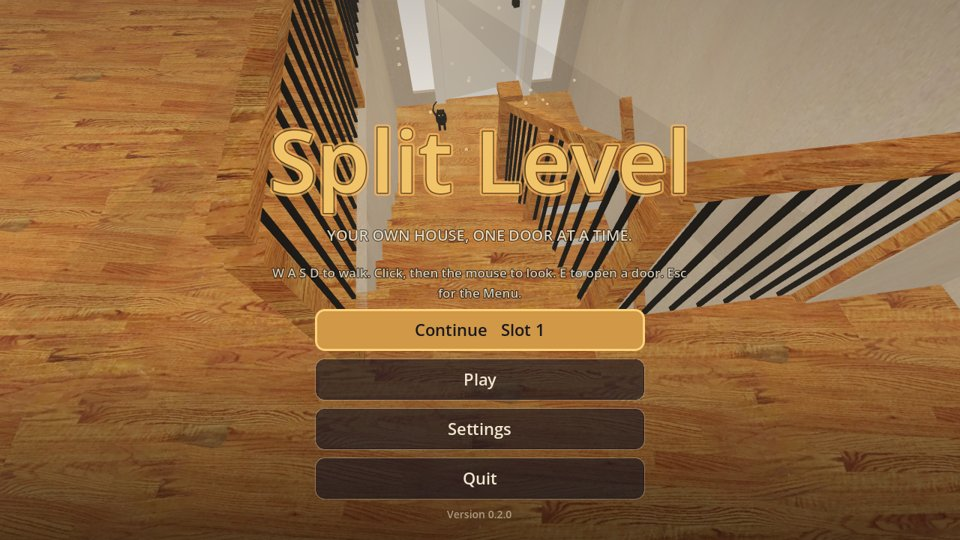
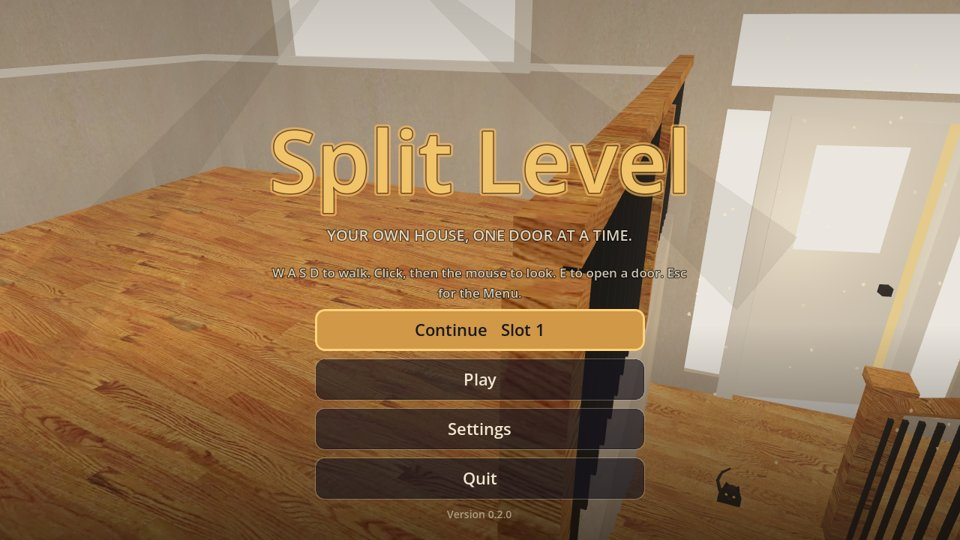
Split Level page: new cat room and start screen shots
Claude-Session: https://claude.ai/code/session_0117TTYBJV5ZXPkFqiZZGkQv

diff --git a/2026-11-22-split-level-look-and-sound/index.html b/2026-11-22-split-level-look-and-sound/index.html
@@ -50,7 +50,7 @@ const DECISION = {
         { title: "Red collar", meta: ["Amber eyes and a plain red collar, no tag", "Reads as someone's pet. Sketch"], media: {img: I('cat_c')} } ] },
     { id: "scene", name: "Start screen scene", sub: "The scene behind the title and its hero motion (G5.21). Inside your house only, never a view outside.",
       options: [
-        { title: "The landing (now)", meta: ["From the top of the stairs: the front door ajar with a warm glow, the cat on the landing", "Motion: the door swings a little wider, the glow grows, the cat looks up. Screenshot of the 0.2 build, title font still the stand-in"], media: {img: I('scene_now')}, rec: true },
+        { title: "The landing (now)", meta: ["From the top of the stairs: the front door ajar with a warm glow, the cat on the landing", "Motion: the door swings a little wider, the glow grows, the cat looks up. Screenshot of the 0.2 build, looking across the dining rail at the door. Title font still the stand-in"], media: {img: I('scene_now')}, rec: true },
         { title: "Hall of doors", meta: ["The upstairs hall, three doors, the far one open and glowing, the cat at the end", "Motion: the far door drifts open. Sketch"], media: {img: I('scene_b')} },
         { title: "The den at dusk", meta: ["The fireplace wall, warm lamp light, the back door open a crack, the cat on the floor", "Motion: the glow pulses, the cat's tail swishes. Sketch"], media: {img: I('scene_c')} } ] },
     { id: "colors", name: "Menu and page colors", sub: "Menu buttons, the talk box and the gradient at the top of the game page (G1.13).",
